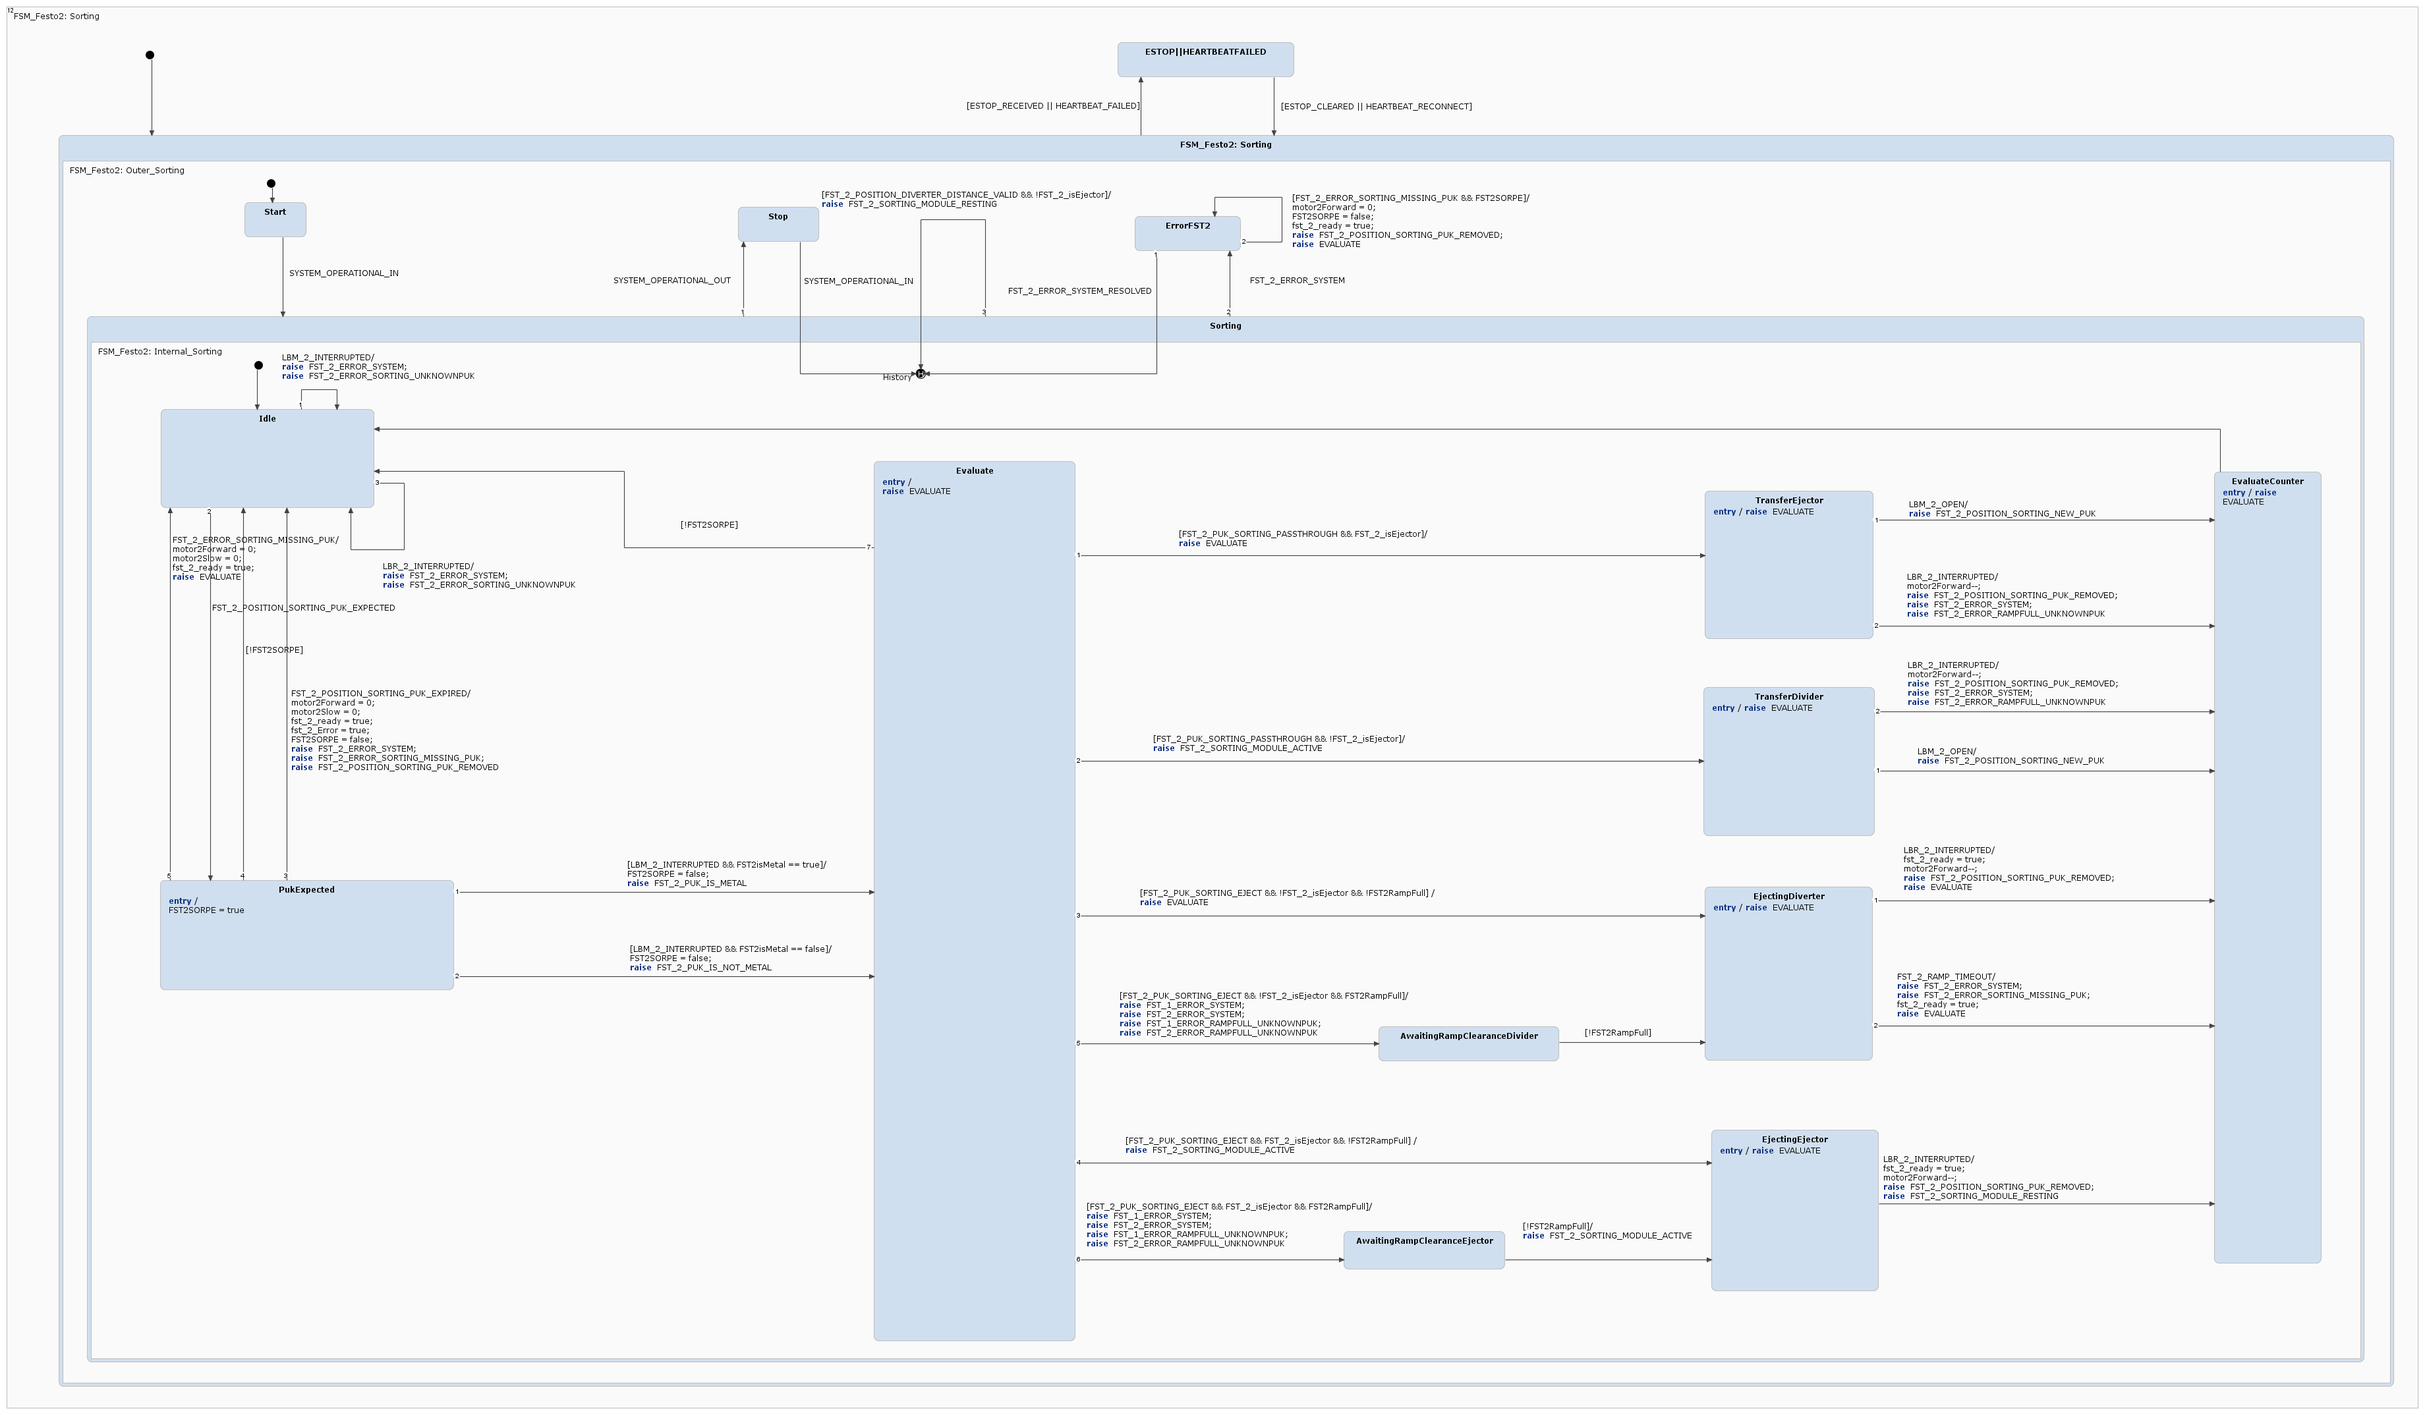
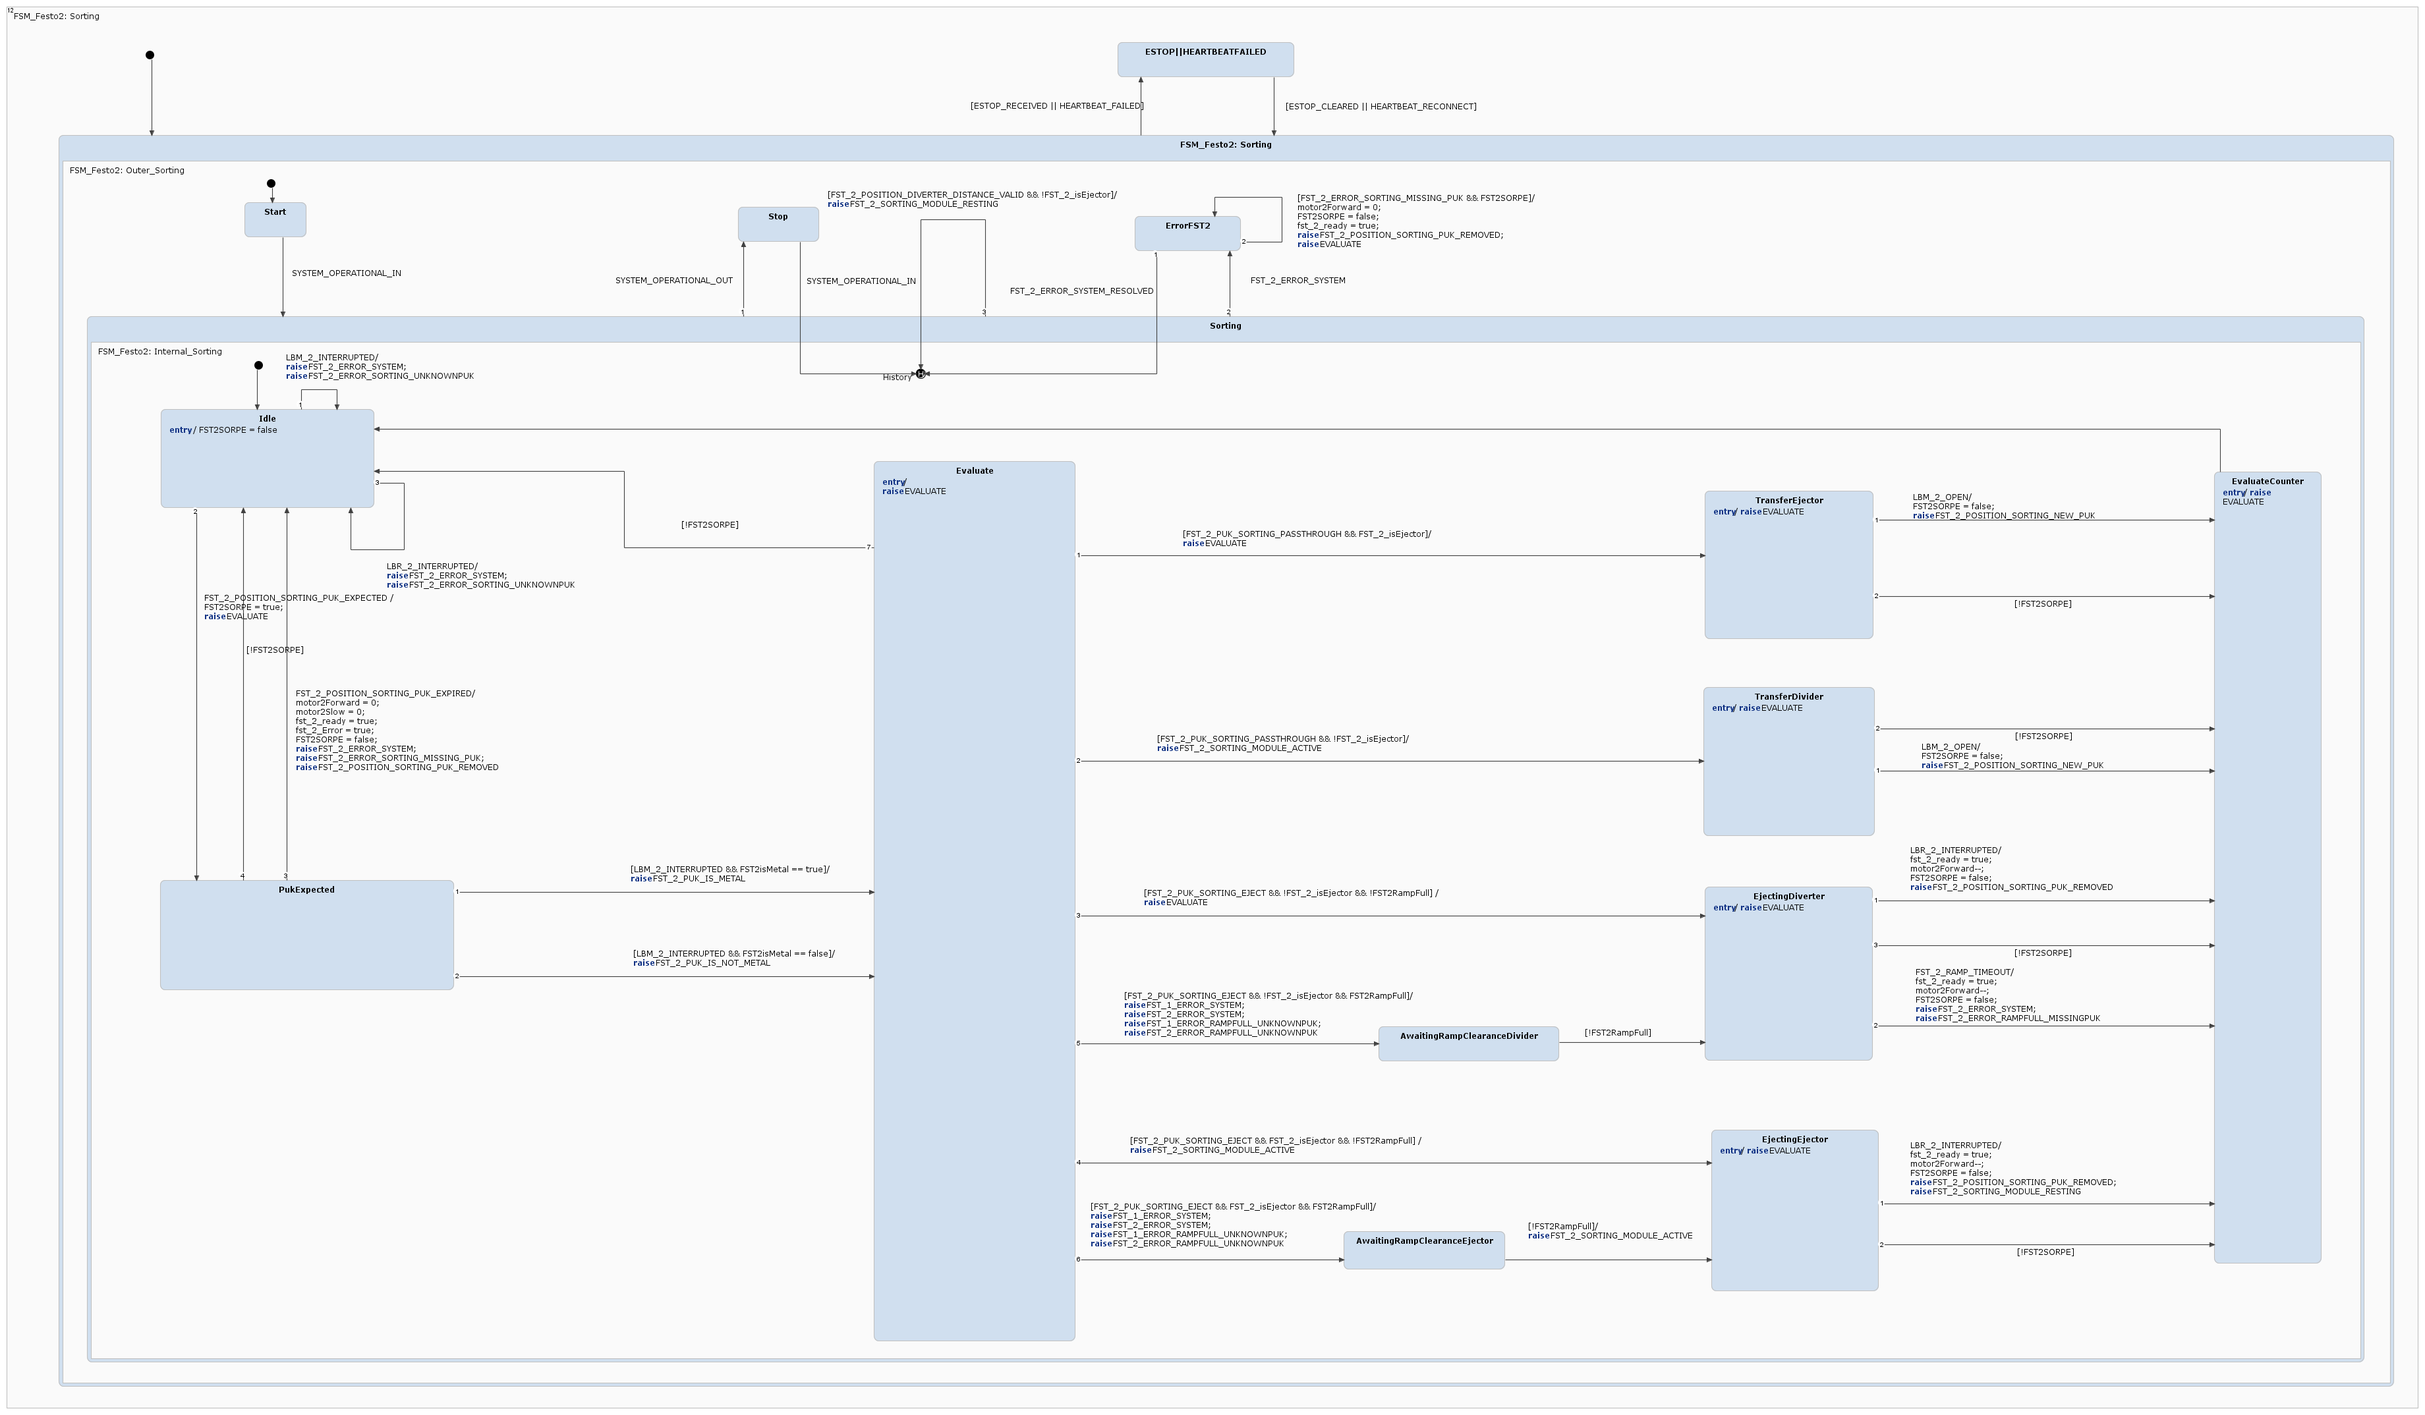
Reviewed fst2 sorting

diff --git a/src/FSM/gen/src-gen/FSM.cpp b/src/FSM/gen/src-gen/FSM.cpp
@@ -4820,11 +4820,11 @@ void FSM::enact_FSM_Festo1__Errors_FSM_Errors_FSM_Festo1__Internal_Errors_NoErro
 	FST_1_BGSL_LIGHT_OFF_observable.next();
 }
 
-/* Entry action for state 'PukExpected'. */
-void FSM::enact_FSM_Festo2__Sorting_FSM_Festo2__Sorting_FSM_Festo2__Outer_Sorting_Sorting_FSM_Festo2__Internal_Sorting_PukExpected()
+/* Entry action for state 'Idle'. */
+void FSM::enact_FSM_Festo2__Sorting_FSM_Festo2__Sorting_FSM_Festo2__Outer_Sorting_Sorting_FSM_Festo2__Internal_Sorting_Idle()
 {
-	/* Entry action for state 'PukExpected'. */
-	setFST2SORPE(true);
+	/* Entry action for state 'Idle'. */
+	setFST2SORPE(false);
 }
 
 /* Entry action for state 'Evaluate'. */
@@ -6473,6 +6473,7 @@ void FSM::enseq_FSM_Festo2__Sorting_FSM_Festo2__Sorting_FSM_Festo2__Outer_Sortin
 void FSM::enseq_FSM_Festo2__Sorting_FSM_Festo2__Sorting_FSM_Festo2__Outer_Sorting_Sorting_FSM_Festo2__Internal_Sorting_Idle_default()
 {
 	/* 'default' enter sequence for state Idle */
+	enact_FSM_Festo2__Sorting_FSM_Festo2__Sorting_FSM_Festo2__Outer_Sorting_Sorting_FSM_Festo2__Internal_Sorting_Idle();
 	stateConfVector[11] = FSM::State::FSM_Festo2__Sorting_FSM_Festo2__Sorting_FSM_Festo2__Outer_Sorting_Sorting_FSM_Festo2__Internal_Sorting_Idle;
 	stateConfVectorPosition = 11;
 	historyVector[9] = stateConfVector[11];
@@ -6482,7 +6483,6 @@ void FSM::enseq_FSM_Festo2__Sorting_FSM_Festo2__Sorting_FSM_Festo2__Outer_Sortin
 void FSM::enseq_FSM_Festo2__Sorting_FSM_Festo2__Sorting_FSM_Festo2__Outer_Sorting_Sorting_FSM_Festo2__Internal_Sorting_PukExpected_default()
 {
 	/* 'default' enter sequence for state PukExpected */
-	enact_FSM_Festo2__Sorting_FSM_Festo2__Sorting_FSM_Festo2__Outer_Sorting_Sorting_FSM_Festo2__Internal_Sorting_PukExpected();
 	stateConfVector[11] = FSM::State::FSM_Festo2__Sorting_FSM_Festo2__Sorting_FSM_Festo2__Outer_Sorting_Sorting_FSM_Festo2__Internal_Sorting_PukExpected;
 	stateConfVectorPosition = 11;
 	historyVector[9] = stateConfVector[11];
@@ -15272,8 +15272,8 @@ sc::integer FSM::FSM_Festo1__Sorting_FSM_Festo1__Sorting_FSM_Festo1__Outer_Sorti
 					exseq_FSM_Festo1__Sorting_FSM_Festo1__Sorting_FSM_Festo1__Outer_Sorting_Sorting_FSM_Festo1__Internal_Sorting_EjectingDiverter();
 					FST_1_ERROR_SYSTEM_observable.next();
 					raiseLocal_FST_1_ERROR_SYSTEM();
-					FST_1_ERROR_SORTING_MISSING_PUK_observable.next();
-					raiseLocal_FST_1_ERROR_SORTING_MISSING_PUK();
+					FST_1_ERROR_RAMPFULL_MISSING_PUK_observable.next();
+					raiseLocal_FST_1_ERROR_RAMPFULL_MISSING_PUK();
 					enseq_FSM_Festo1__Sorting_FSM_Festo1__Sorting_FSM_Festo1__Outer_Sorting_Sorting_FSM_Festo1__Internal_Sorting_EvaluateCounter_default();
 					FSM_Festo1__Sorting_FSM_Festo1__Sorting_FSM_Festo1__Outer_Sorting_Sorting_react(2);
 					transitioned_after = 2;
@@ -19304,6 +19304,9 @@ sc::integer FSM::FSM_Festo2__Sorting_FSM_Festo2__Sorting_FSM_Festo2__Outer_Sorti
 				if (FST_2_POSITION_SORTING_PUK_EXPECTED_raised)
 				{ 
 					exseq_FSM_Festo2__Sorting_FSM_Festo2__Sorting_FSM_Festo2__Outer_Sorting_Sorting_FSM_Festo2__Internal_Sorting_Idle();
+					setFST2SORPE(true);
+					EVALUATE_observable.next();
+					raiseLocal_EVALUATE();
 					enseq_FSM_Festo2__Sorting_FSM_Festo2__Sorting_FSM_Festo2__Outer_Sorting_Sorting_FSM_Festo2__Internal_Sorting_PukExpected_default();
 					FSM_Festo2__Sorting_FSM_Festo2__Sorting_FSM_Festo2__Outer_Sorting_Sorting_react(11);
 					transitioned_after = 11;
@@ -19343,7 +19346,6 @@ sc::integer FSM::FSM_Festo2__Sorting_FSM_Festo2__Sorting_FSM_Festo2__Outer_Sorti
 			if ((LBM_2_INTERRUPTED_raised) && ((FST2isMetal) == (true)))
 			{ 
 				exseq_FSM_Festo2__Sorting_FSM_Festo2__Sorting_FSM_Festo2__Outer_Sorting_Sorting_FSM_Festo2__Internal_Sorting_PukExpected();
-				setFST2SORPE(false);
 				FST_2_PUK_IS_METAL_observable.next();
 				enseq_FSM_Festo2__Sorting_FSM_Festo2__Sorting_FSM_Festo2__Outer_Sorting_Sorting_FSM_Festo2__Internal_Sorting_Evaluate_default();
 				FSM_Festo2__Sorting_FSM_Festo2__Sorting_FSM_Festo2__Outer_Sorting_Sorting_react(11);
@@ -19353,7 +19355,6 @@ sc::integer FSM::FSM_Festo2__Sorting_FSM_Festo2__Sorting_FSM_Festo2__Outer_Sorti
 				if ((LBM_2_INTERRUPTED_raised) && ((FST2isMetal) == (false)))
 				{ 
 					exseq_FSM_Festo2__Sorting_FSM_Festo2__Sorting_FSM_Festo2__Outer_Sorting_Sorting_FSM_Festo2__Internal_Sorting_PukExpected();
-					setFST2SORPE(false);
 					FST_2_PUK_IS_NOT_METAL_observable.next();
 					enseq_FSM_Festo2__Sorting_FSM_Festo2__Sorting_FSM_Festo2__Outer_Sorting_Sorting_FSM_Festo2__Internal_Sorting_Evaluate_default();
 					FSM_Festo2__Sorting_FSM_Festo2__Sorting_FSM_Festo2__Outer_Sorting_Sorting_react(11);
@@ -19384,21 +19385,7 @@ sc::integer FSM::FSM_Festo2__Sorting_FSM_Festo2__Sorting_FSM_Festo2__Outer_Sorti
 							enseq_FSM_Festo2__Sorting_FSM_Festo2__Sorting_FSM_Festo2__Outer_Sorting_Sorting_FSM_Festo2__Internal_Sorting_Idle_default();
 							FSM_Festo2__Sorting_FSM_Festo2__Sorting_FSM_Festo2__Outer_Sorting_Sorting_react(11);
 							transitioned_after = 11;
-						}  else
-						{
-							if (local_FST_2_ERROR_SORTING_MISSING_PUK_raised)
-							{ 
-								exseq_FSM_Festo2__Sorting_FSM_Festo2__Sorting_FSM_Festo2__Outer_Sorting_Sorting_FSM_Festo2__Internal_Sorting_PukExpected();
-								setMotor2Forward(0);
-								setMotor2Slow(0);
-								setFst_2_ready(true);
-								EVALUATE_observable.next();
-								raiseLocal_EVALUATE();
-								enseq_FSM_Festo2__Sorting_FSM_Festo2__Sorting_FSM_Festo2__Outer_Sorting_Sorting_FSM_Festo2__Internal_Sorting_Idle_default();
-								FSM_Festo2__Sorting_FSM_Festo2__Sorting_FSM_Festo2__Outer_Sorting_Sorting_react(11);
-								transitioned_after = 11;
-							} 
-						}
+						} 
 					}
 				}
 			}
@@ -19526,9 +19513,8 @@ sc::integer FSM::FSM_Festo2__Sorting_FSM_Festo2__Sorting_FSM_Festo2__Outer_Sorti
 				exseq_FSM_Festo2__Sorting_FSM_Festo2__Sorting_FSM_Festo2__Outer_Sorting_Sorting_FSM_Festo2__Internal_Sorting_EjectingDiverter();
 				setFst_2_ready(true);
 				motor2Forward--;
+				setFST2SORPE(false);
 				FST_2_POSITION_SORTING_PUK_REMOVED_observable.next();
-				EVALUATE_observable.next();
-				raiseLocal_EVALUATE();
 				enseq_FSM_Festo2__Sorting_FSM_Festo2__Sorting_FSM_Festo2__Outer_Sorting_Sorting_FSM_Festo2__Internal_Sorting_EvaluateCounter_default();
 				FSM_Festo2__Sorting_FSM_Festo2__Sorting_FSM_Festo2__Outer_Sorting_Sorting_react(11);
 				transitioned_after = 11;
@@ -19537,17 +19523,26 @@ sc::integer FSM::FSM_Festo2__Sorting_FSM_Festo2__Sorting_FSM_Festo2__Outer_Sorti
 				if (FST_2_RAMP_TIMEOUT_raised)
 				{ 
 					exseq_FSM_Festo2__Sorting_FSM_Festo2__Sorting_FSM_Festo2__Outer_Sorting_Sorting_FSM_Festo2__Internal_Sorting_EjectingDiverter();
+					setFst_2_ready(true);
+					motor2Forward--;
+					setFST2SORPE(false);
 					FST_2_ERROR_SYSTEM_observable.next();
 					raiseLocal_FST_2_ERROR_SYSTEM();
-					FST_2_ERROR_SORTING_MISSING_PUK_observable.next();
-					raiseLocal_FST_2_ERROR_SORTING_MISSING_PUK();
-					setFst_2_ready(true);
-					EVALUATE_observable.next();
-					raiseLocal_EVALUATE();
+					FST_2_ERROR_RAMPFULL_MISSINGPUK_observable.next();
+					raiseLocal_FST_2_ERROR_RAMPFULL_MISSINGPUK();
 					enseq_FSM_Festo2__Sorting_FSM_Festo2__Sorting_FSM_Festo2__Outer_Sorting_Sorting_FSM_Festo2__Internal_Sorting_EvaluateCounter_default();
 					FSM_Festo2__Sorting_FSM_Festo2__Sorting_FSM_Festo2__Outer_Sorting_Sorting_react(11);
 					transitioned_after = 11;
-				} 
+				}  else
+				{
+					if (!(FST2SORPE))
+					{ 
+						exseq_FSM_Festo2__Sorting_FSM_Festo2__Sorting_FSM_Festo2__Outer_Sorting_Sorting_FSM_Festo2__Internal_Sorting_EjectingDiverter();
+						enseq_FSM_Festo2__Sorting_FSM_Festo2__Sorting_FSM_Festo2__Outer_Sorting_Sorting_FSM_Festo2__Internal_Sorting_EvaluateCounter_default();
+						FSM_Festo2__Sorting_FSM_Festo2__Sorting_FSM_Festo2__Outer_Sorting_Sorting_react(11);
+						transitioned_after = 11;
+					} 
+				}
 			}
 		} 
 		/* If no transition was taken */
@@ -19570,21 +19565,16 @@ sc::integer FSM::FSM_Festo2__Sorting_FSM_Festo2__Sorting_FSM_Festo2__Outer_Sorti
 			if (LBM_2_OPEN_raised)
 			{ 
 				exseq_FSM_Festo2__Sorting_FSM_Festo2__Sorting_FSM_Festo2__Outer_Sorting_Sorting_FSM_Festo2__Internal_Sorting_TransferEjector();
+				setFST2SORPE(false);
 				FST_2_POSITION_SORTING_NEW_PUK_observable.next();
 				enseq_FSM_Festo2__Sorting_FSM_Festo2__Sorting_FSM_Festo2__Outer_Sorting_Sorting_FSM_Festo2__Internal_Sorting_EvaluateCounter_default();
 				FSM_Festo2__Sorting_FSM_Festo2__Sorting_FSM_Festo2__Outer_Sorting_Sorting_react(11);
 				transitioned_after = 11;
 			}  else
 			{
-				if (LBR_2_INTERRUPTED_raised)
+				if (!(FST2SORPE))
 				{ 
 					exseq_FSM_Festo2__Sorting_FSM_Festo2__Sorting_FSM_Festo2__Outer_Sorting_Sorting_FSM_Festo2__Internal_Sorting_TransferEjector();
-					motor2Forward--;
-					FST_2_POSITION_SORTING_PUK_REMOVED_observable.next();
-					FST_2_ERROR_SYSTEM_observable.next();
-					raiseLocal_FST_2_ERROR_SYSTEM();
-					FST_2_ERROR_RAMPFULL_UNKNOWNPUK_observable.next();
-					raiseLocal_FST_2_ERROR_RAMPFULL_UNKNOWNPUK();
 					enseq_FSM_Festo2__Sorting_FSM_Festo2__Sorting_FSM_Festo2__Outer_Sorting_Sorting_FSM_Festo2__Internal_Sorting_EvaluateCounter_default();
 					FSM_Festo2__Sorting_FSM_Festo2__Sorting_FSM_Festo2__Outer_Sorting_Sorting_react(11);
 					transitioned_after = 11;
@@ -19611,21 +19601,16 @@ sc::integer FSM::FSM_Festo2__Sorting_FSM_Festo2__Sorting_FSM_Festo2__Outer_Sorti
 			if (LBM_2_OPEN_raised)
 			{ 
 				exseq_FSM_Festo2__Sorting_FSM_Festo2__Sorting_FSM_Festo2__Outer_Sorting_Sorting_FSM_Festo2__Internal_Sorting_TransferDivider();
+				setFST2SORPE(false);
 				FST_2_POSITION_SORTING_NEW_PUK_observable.next();
 				enseq_FSM_Festo2__Sorting_FSM_Festo2__Sorting_FSM_Festo2__Outer_Sorting_Sorting_FSM_Festo2__Internal_Sorting_EvaluateCounter_default();
 				FSM_Festo2__Sorting_FSM_Festo2__Sorting_FSM_Festo2__Outer_Sorting_Sorting_react(11);
 				transitioned_after = 11;
 			}  else
 			{
-				if (LBR_2_INTERRUPTED_raised)
+				if (!(FST2SORPE))
 				{ 
 					exseq_FSM_Festo2__Sorting_FSM_Festo2__Sorting_FSM_Festo2__Outer_Sorting_Sorting_FSM_Festo2__Internal_Sorting_TransferDivider();
-					motor2Forward--;
-					FST_2_POSITION_SORTING_PUK_REMOVED_observable.next();
-					FST_2_ERROR_SYSTEM_observable.next();
-					raiseLocal_FST_2_ERROR_SYSTEM();
-					FST_2_ERROR_RAMPFULL_UNKNOWNPUK_observable.next();
-					raiseLocal_FST_2_ERROR_RAMPFULL_UNKNOWNPUK();
 					enseq_FSM_Festo2__Sorting_FSM_Festo2__Sorting_FSM_Festo2__Outer_Sorting_Sorting_FSM_Festo2__Internal_Sorting_EvaluateCounter_default();
 					FSM_Festo2__Sorting_FSM_Festo2__Sorting_FSM_Festo2__Outer_Sorting_Sorting_react(11);
 					transitioned_after = 11;
@@ -19654,12 +19639,22 @@ sc::integer FSM::FSM_Festo2__Sorting_FSM_Festo2__Sorting_FSM_Festo2__Outer_Sorti
 				exseq_FSM_Festo2__Sorting_FSM_Festo2__Sorting_FSM_Festo2__Outer_Sorting_Sorting_FSM_Festo2__Internal_Sorting_EjectingEjector();
 				setFst_2_ready(true);
 				motor2Forward--;
+				setFST2SORPE(false);
 				FST_2_POSITION_SORTING_PUK_REMOVED_observable.next();
 				FST_2_SORTING_MODULE_RESTING_observable.next();
 				enseq_FSM_Festo2__Sorting_FSM_Festo2__Sorting_FSM_Festo2__Outer_Sorting_Sorting_FSM_Festo2__Internal_Sorting_EvaluateCounter_default();
 				FSM_Festo2__Sorting_FSM_Festo2__Sorting_FSM_Festo2__Outer_Sorting_Sorting_react(11);
 				transitioned_after = 11;
-			} 
+			}  else
+			{
+				if (!(FST2SORPE))
+				{ 
+					exseq_FSM_Festo2__Sorting_FSM_Festo2__Sorting_FSM_Festo2__Outer_Sorting_Sorting_FSM_Festo2__Internal_Sorting_EjectingEjector();
+					enseq_FSM_Festo2__Sorting_FSM_Festo2__Sorting_FSM_Festo2__Outer_Sorting_Sorting_FSM_Festo2__Internal_Sorting_EvaluateCounter_default();
+					FSM_Festo2__Sorting_FSM_Festo2__Sorting_FSM_Festo2__Outer_Sorting_Sorting_react(11);
+					transitioned_after = 11;
+				} 
+			}
 		} 
 		/* If no transition was taken */
 		if ((transitioned_after) == (transitioned_before))
@@ -19680,6 +19675,7 @@ sc::integer FSM::FSM_Festo2__Sorting_FSM_Festo2__Sorting_FSM_Festo2__Outer_Sorti
 		stateConfVector[11] = FSM::State::FSM_Festo2__Sorting_FSM_Festo2__Sorting_FSM_Festo2__Outer_Sorting_Sorting;
 		stateConfVectorPosition = 11;
 		/* 'default' enter sequence for state Idle */
+		enact_FSM_Festo2__Sorting_FSM_Festo2__Sorting_FSM_Festo2__Outer_Sorting_Sorting_FSM_Festo2__Internal_Sorting_Idle();
 		stateConfVector[11] = FSM::State::FSM_Festo2__Sorting_FSM_Festo2__Sorting_FSM_Festo2__Outer_Sorting_Sorting_FSM_Festo2__Internal_Sorting_Idle;
 		stateConfVectorPosition = 11;
 		historyVector[9] = stateConfVector[11];

diff --git a/src/FSM/gen/src-gen/FSM.h b/src/FSM/gen/src-gen/FSM.h
@@ -1715,7 +1715,7 @@ class FSM : public sc::EventDrivenInterface
 		void enact_FSM_Festo1__Errors_FSM_Errors_FSM_Festo1__Internal_Errors_NoErrorSorting();
 		void enact_FSM_Festo1__Errors_FSM_Errors_FSM_Festo1__Internal_Errors_NoErrorEgress();
 		void enact_FSM_Festo1__Errors_FSM_Errors_FSM_Festo1__Internal_Errors_NoErrorRampFull();
-		void enact_FSM_Festo2__Sorting_FSM_Festo2__Sorting_FSM_Festo2__Outer_Sorting_Sorting_FSM_Festo2__Internal_Sorting_PukExpected();
+		void enact_FSM_Festo2__Sorting_FSM_Festo2__Sorting_FSM_Festo2__Outer_Sorting_Sorting_FSM_Festo2__Internal_Sorting_Idle();
 		void enact_FSM_Festo2__Sorting_FSM_Festo2__Sorting_FSM_Festo2__Outer_Sorting_Sorting_FSM_Festo2__Internal_Sorting_Evaluate();
 		void enact_FSM_Festo2__Sorting_FSM_Festo2__Sorting_FSM_Festo2__Outer_Sorting_Sorting_FSM_Festo2__Internal_Sorting_EjectingDiverter();
 		void enact_FSM_Festo2__Sorting_FSM_Festo2__Sorting_FSM_Festo2__Outer_Sorting_Sorting_FSM_Festo2__Internal_Sorting_TransferEjector();
